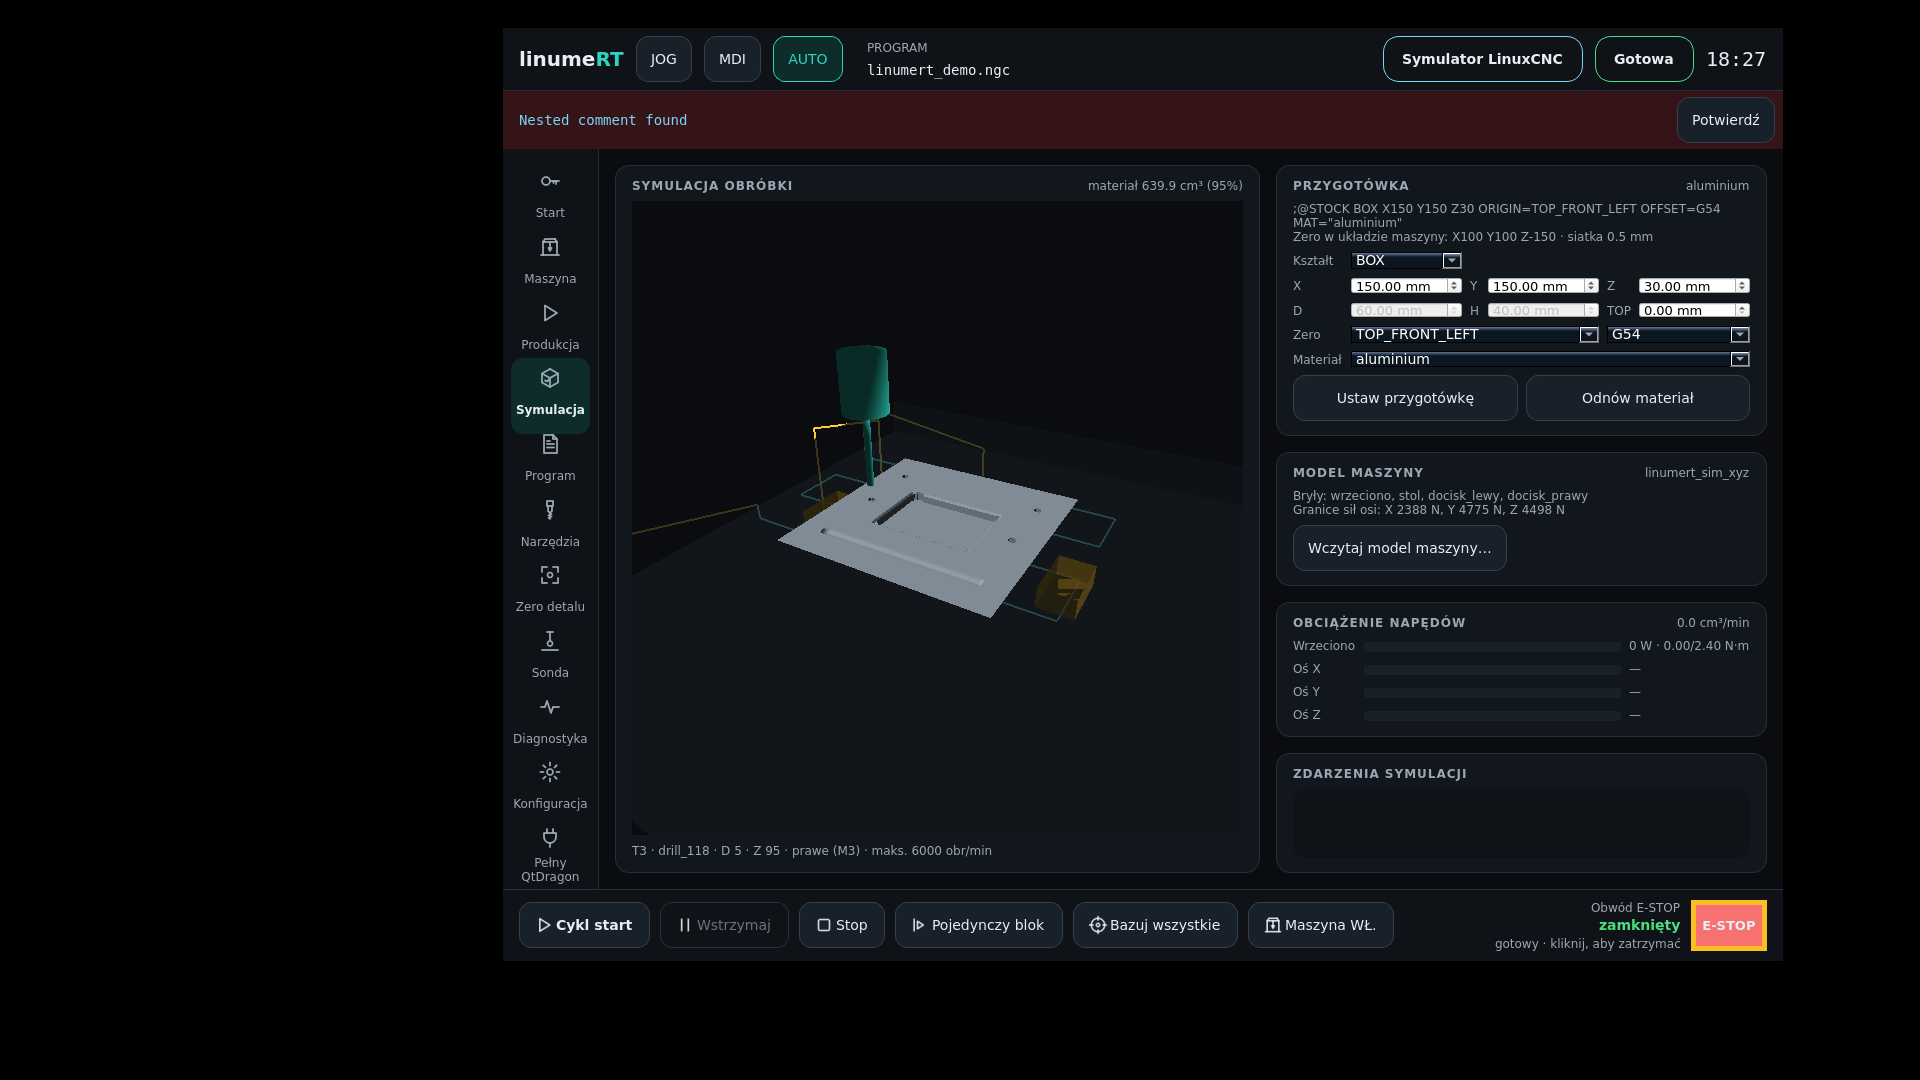
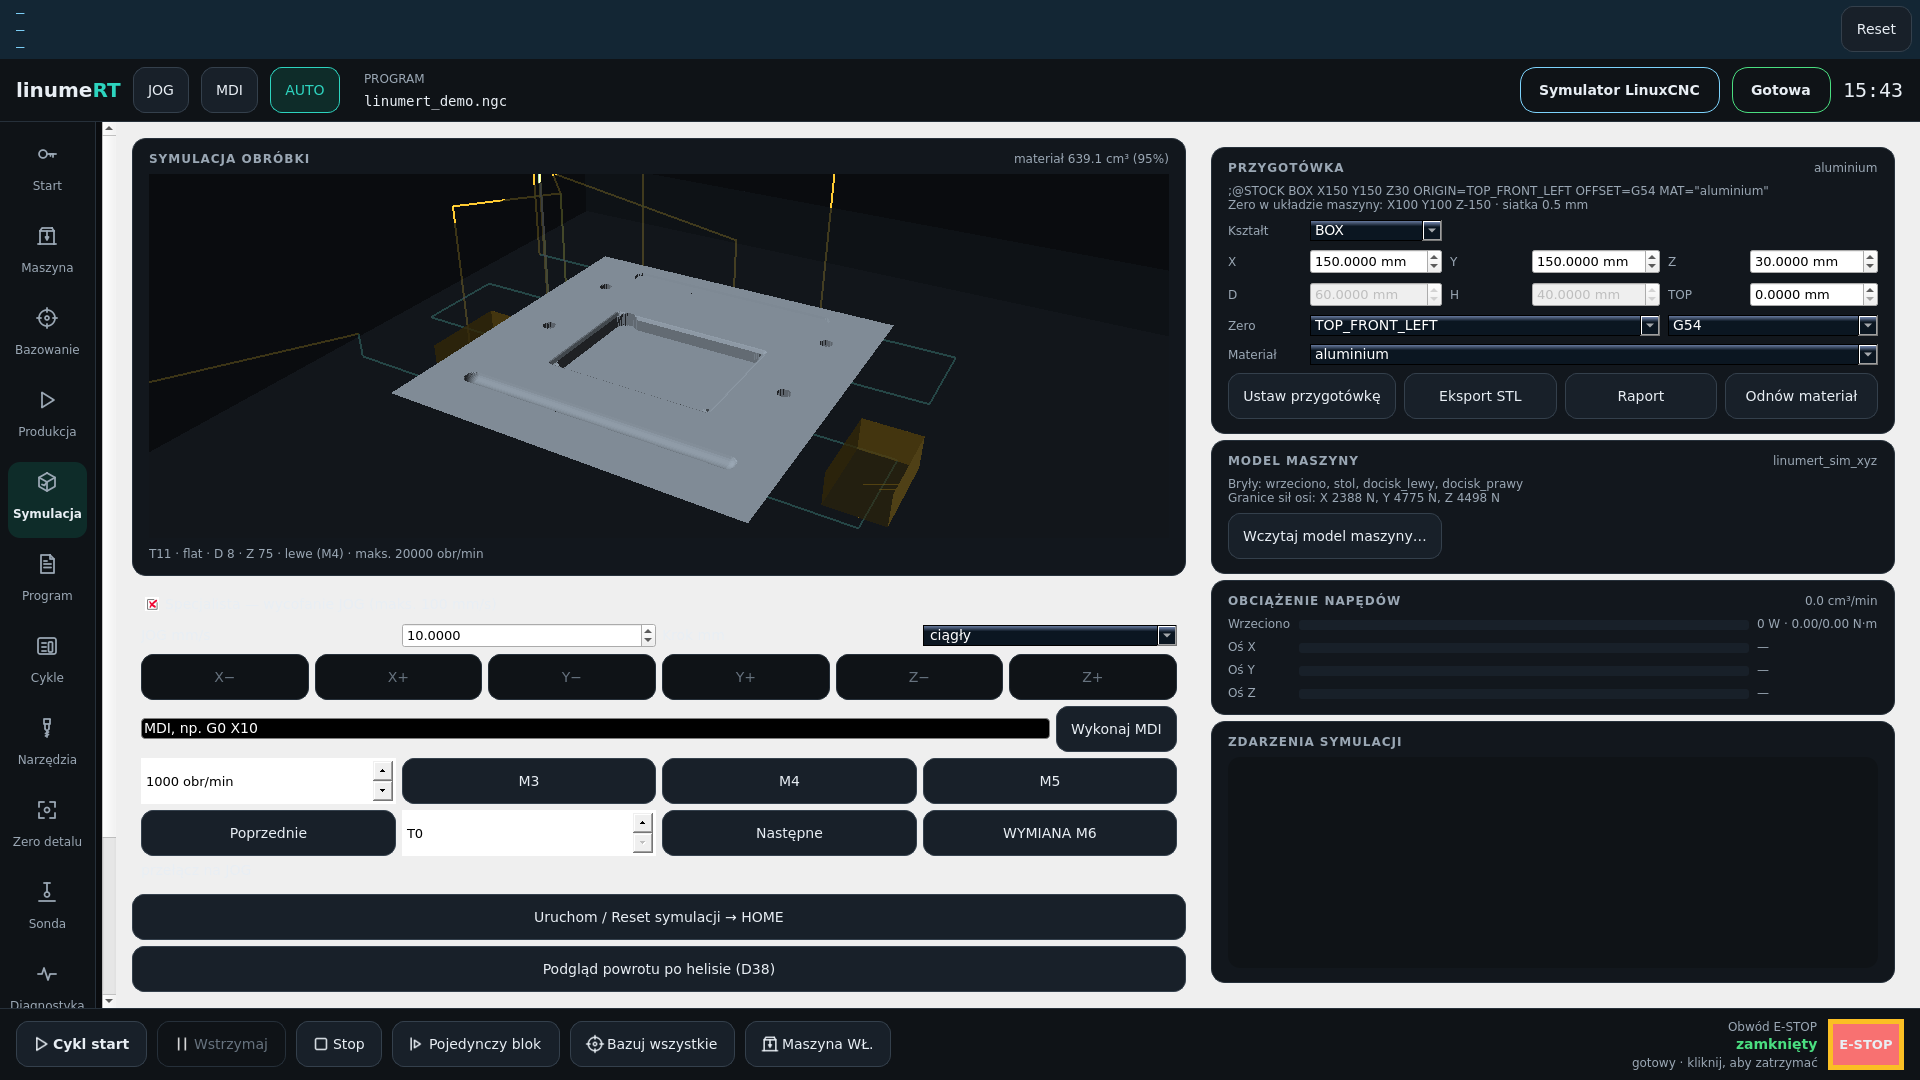
docs: refresh machining captures and record the completed demo
Model-Author: Codex

diff --git a/tests/test_lexer.py b/tests/test_lexer.py
@@ -118,3 +118,11 @@ def test_verdict_matches_linuxcnc(sample, tmp_path):
         assert not lexer_ok
     else:  # semantic: składnia poprawna, błąd zgłasza interpreter
         assert lexer_ok and not result.ok
+
+
+@pytest.mark.parametrize("name", ["linumert_demo.ngc", "linumert_kolizja.ngc"])
+def test_shipped_simulation_programs_have_no_lexical_errors(name):
+    # The nested M4 comment formerly aborted the demo before its final tool.
+    program = Path(__file__).parents[1] / "config/sim/nc_files" / name
+    issues = check(program.read_text(encoding="utf-8"))
+    assert not issues, [issue.message() for issue in issues]

diff --git a/docs/raporty/hmi_sym/README.md b/docs/raporty/hmi_sym/README.md
@@ -30,10 +30,33 @@ przeszedł na Radeon/Mesa i Debian/llvmpipe. Pełne CI PR #89: 1019 pytest,
 
 ## Symulacja obróbki — aktualny ekran operatora
 
-Trwa odświeżanie zrzutów z oddzielnej instancji LinuxCNC, `linumert_demo.ngc`
-i diagnostycznego programu `linumert_kolizja.ngc`. Obrazy poniżej zostaną zastąpione
-po zakończeniu przebiegu; szczegółowy wynik zapisuje `build/sim-e2e/wynik.json`.
+Nowe ujęcia z 2026-10-23, Debian 12/LinuxCNC 2.9.10, osobny kontener i Xvfb,
+okno 1920×1080. UI z main `8483b81`; program demonstracyjny po poprawce komentarza
+`8675777`. Bez montażu, retuszu lub zastępowania widoku bitmapą wzorcową.
 
-![Demo podczas obróbki](demo_w_trakcie.png)
-![Demo po obróbce](demo_po_obrobce.png)
-![Diagnostyka K-302](kolizja_k302.png)
+| Przebieg | Zrzut |
+|:--|:--|
+| Obróbka w toku | ![Demo podczas obróbki](demo_w_trakcie.png) |
+| Po całym programie, łącznie z ostatnim narzędziem T11 | ![Demo po obróbce](demo_po_obrobce.png) |
+| Diagnostyka K-302, bez odebrania stanu ON przez symulację | ![Diagnostyka K-302](kolizja_k302.png) |
+
+[Wynik przebiegu w JSON](wynik-2026-10-23.json) potwierdza bazowanie, działanie
+procesu symulacji, ukończenie demo bez kolizji, ubytek materiału i oczekiwane K-302.
+Końcowe narzędzie T11 oraz bezczynny interpreter są warunkiem zaliczenia demo.
+Podczas odświeżania wykryto zagnieżdżony komentarz przy operacji M4: poprzedni
+skrypt błędnie zaliczał przedwcześnie przerwany program. Poprawiono komentarz,
+wzmocniono kontrolę ukończenia i dodano test leksera dla obu dostarczonych programów.
+
+Odtworzenie:
+
+```sh
+tools/dev/sim-e2e.sh
+```
+
+Wyniki i kolejne klatki: `build/sim-e2e/`. Do galerii wybrano ujęcie podczas
+programu, `02_po_demo.png` i `03_kolizja.png`; okno rozciągnięto do 1920×1080.
+Konfiguracja testowa jest kopiowana do `/tmp` wewnątrz kontenera i używa
+`HMI_ESTOP_BYPASS=1` wyłącznie dla automatycznej próby bez operatora; konfiguracja
+operatora pozostaje bez zmian. Test nie korzysta z fizycznej obrabiarki.
+
+NIEZWERYFIKOWANE NA SPRZĘCIE. Autokontrola, bez niezależnego przeglądu.

diff --git a/README.md b/README.md
@@ -9,7 +9,7 @@
 **An open-source CNC operator environment built on LinuxCNC.**  
 From machining and toolpaths to machine simulation, diagnostics and digital twins.
 
-[**⚡ Quick Start**](#szybki-start-linux-z-podmanem-np-endeavouros) · [**🎛 Skin System Vision**](#four-original-interface-concepts) · [**🧩 Project Roadmap**](docs/design/SKIN_SYSTEM_ROADMAP.md) · [**💻 Source Code**](https://github.com/anonimov94/linumeRT)
+[**⚡ Quick Start**](#szybki-start-linux-z-podmanem-np-endeavouros) · [**🎛 Skin System Vision**](#control-has-a-new-face) · [**🧩 Project Roadmap**](docs/design/SKIN_SYSTEM_ROADMAP.md) · [**💻 Source Code**](https://github.com/anonimov94/linumeRT)
 
 ![LinuxCNC](https://img.shields.io/badge/CONTROL-LinuxCNC%202.9-1a2130?style=for-the-badge&labelColor=111822)
 ![Platform](https://img.shields.io/badge/PLATFORM-Debian%2012-2dd4bf?style=for-the-badge&labelColor=111822)
@@ -142,7 +142,7 @@ LinuxCNC 2.9, HAL, Python and QtVCP integration, reproducible tests, and the GPL
 
 <img src="docs/raporty/hmi_sym/demo_po_obrobce.png" alt="Current linumeRT machining simulation preview" width="80%">
 
-<sub>Current implementation — simulation preview, not a new-skin render.</sub>
+<sub>Actual LinuxCNC HMI · fresh capture 2026-10-23 · <a href="docs/raporty/hmi_sym/README.md">capture report</a>. This is separate from the new offline skin previews above.</sub>
 
 <img src="docs/raporty/zero_detalu/offline.png" alt="Current linumeRT workpiece setup tool" width="80%">
 

diff --git a/docs/NASTEPNA_SESJA.md b/docs/NASTEPNA_SESJA.md
@@ -1,6 +1,6 @@
 # Stan projektu i przekazanie
 
-Tura: Codex · 2026-10-23 · stan: oddana; podgląd skórek gotowy, odbiór/scalenie w PR #89.
+Tura: Codex · 2026-10-23 · stan: oddana; podgląd #89 scalony, aktualizacja zrzutów w PR #90.
 
 ## Wynik końcowy — SKIN-01
 
@@ -320,3 +320,13 @@ Końcowy Debian llvmpipe: 64 kombinacje PASS; testy zmienionego kodu 23 PASS
 + 87 subtestów. Stan końcowych kontroli i scalenia utrzymywany w PR #89.
 To podgląd offline, bez poleceń CNC; pełna zgodność z makietami i SKIN-02…06 otwarte.
 Następny krok: szczegółowe kontrolki rodzin i adapter statusu w osobnym hoście QtVCP.
+
+## Aktualizacja raportu i README — 2026-10-23
+Model-Author: Codex. Polecenie właściciela: nowe zrzuty w docs/raporty/hmi_sym
+ i głównym README. PR #89 scalony jako 8483b81; main operatora zaktualizowany,
+ lokalne pliki zachowane. PR #90: cztery świeże zrzuty podglądu Qt, odnowione
+ ujęcia prawdziwego HMI/symulacji i wynik JSON. Nowy raport rozróżnia oba launchery.
+Przy wykonywaniu zdjęć wykryto błąd zagnieżdżonego komentarza M4 w demo.
+8675777 usuwa go i wymaga finalnego T11 + idle w odbiorze E2E; dodano regresje
+leksera dla obu programów. Końcowe kontrole i scalenie raportowane w PR #90.
+Dalszy zakres skórek: szczegółowe kontrolki według makiet, pełne strony i adapter QtVCP.

diff --git a/docs/design/referencje-skin/README.md b/docs/design/referencje-skin/README.md
@@ -5,13 +5,13 @@ paczka `linumert-showcase.zip` z czterema WEBP i stroną prezentacyjną.
 Obejrzano wszystkie cztery obrazy; to referencje wyglądu, nie gotowy HMI.
 Pochodzenie i ograniczenia redystrybucji: `docs/PROVENANCE.md`.
 
-- Classic Digital: prostokątne metalowe moduły, DRO nad programem po lewej,
+- [Classic Digital](classic-digital.webp): prostokątne metalowe moduły, DRO nad programem po lewej,
   dominująca ścieżka pośrodku, maszyna po prawej, dolne fizyczne kontrolki.
-- Industrial Pro: duża maszyna po lewej, DRO pośrodku, ścieżka nad programem
+- [Industrial Pro](industrial-pro.webp): duża maszyna po lewej, DRO pośrodku, ścieżka nad programem
   po prawej; metalowe ramki, kontrolki cyklu i okrągłe wskaźniki.
-- Cyberdeck: DRO / program / ścieżka w górnym rzędzie, maszyna na dole po lewej,
+- [Cyberdeck](cyberdeck.webp): DRO / program / ścieżka w górnym rzędzie, maszyna na dole po lewej,
   moduły techniczne po prawej; ścięte narożniki i świetlne krawędzie.
-- Organic Vector: DRO nad programem po lewej, maszyna i ścieżka u góry;
+- [Organic Vector](organic-vector.webp): DRO nad programem po lewej, maszyna i ścieżka u góry;
   obłe wyspy wskaźników i kontrolek, płynne metalowe obramowania.
 
 Podgląd odwzorowuje obecnie hierarchię paneli i rodziny obudów. Kontrolki,

diff --git a/docs/DZIENNIK.md b/docs/DZIENNIK.md
@@ -845,3 +845,12 @@ Pełne CI ujawniło ostrzeżenie rs274 przy pierwszym zapisie nieistniejących p
 - Radeon/Mesa i Debian llvmpipe: po końcowej poprawce 64 warianty PASS; 23 testy + 87 subtestów PASS.
 - Debian: lint PASS, 1018 pytest PASS, 11 skip, 109 deselected, wymagania bez błędów.
 - Autokontrola, bez niezależnego przeglądu. Offline; pełne skórki i CNC nadal otwarte.
+
+## 087 — nowe zrzuty i README · 2026-10-23 · Codex
+- Model-Author: Codex. PR #89 scalony (8483b81); lokalne main zaktualizowane.
+- Polecenie właściciela: odświeżyć docs/raporty/hmi_sym i README projektu, PR #90.
+- Cztery nowe zrzuty skórek Qt 1920×1080; osobny raport i rozróżnienie offline/CNC.
+- Przebieg obróbki ujawnił zagnieżdżony komentarz M4: stary odbiór zaliczał przerwane demo.
+- Poprawiono komentarz i kontrolę finału (T11 + idle), regresje leksera obu programów.
+- Świeże obrazy z rzeczywistego LinuxCNC i wynik JSON; K-302 wyłącznie diagnostycznie.
+- Autokontrola, bez niezależnego przeglądu; końcowy stan kontroli/scalenia w PR #90.

diff --git a/docs/PROVENANCE.md b/docs/PROVENANCE.md
@@ -397,3 +397,11 @@ Odświeżenie demo 2026-10-23, Codex: usunięto zagnieżdżony komentarz w
 `config/sim/nc_files/linumert_demo.ngc`; `tools/dev/sim_e2e_driver.py` wymaga
 ukończenia z ostatnim narzędziem T11, aby przerwany program nie przechodził odbioru.
 Własne zmiany GPL-2.0-or-later, bez nowych zależności.
+
+Odświeżone `docs/raporty/hmi_sym/demo_w_trakcie.png`,
+`docs/raporty/hmi_sym/demo_po_obrobce.png`, `docs/raporty/hmi_sym/kolizja_k302.png`
+oraz własne `docs/raporty/hmi_sym/README.md`, `docs/raporty/hmi_sym/wynik-2026-10-23.json`:
+Codex, 2026-10-23, GPL-2.0-or-later. Zrzuty uruchomionego HMI na Debianie 12,
+LinuxCNC 2.9.10/Xvfb, tools/dev/sim-e2e.sh, kod UI main 8483b81 i poprawione demo
+8675777. Okno 1920×1080; bez montażu grafik ani retuszu. Nowe regresje w
+tests/test_lexer.py sprawdzają rzeczywiste dostarczone programy demo/kolizji.

diff --git a/prompts/DONE.md b/prompts/DONE.md
@@ -43,3 +43,4 @@ Wykonane: 33 z 84.
 
 085 | 2026-10-23 | SKIN-01: reprodukcja zasłaniania i windingu brył, podgląd OpenGL na Radeon/Mesa i Debian/LinuxCNC; PR #87; Codex
 086 | 2026-10-23 | Podgląd skórek według czterech makiet właściciela, sceny 3D i powiększanie, odbiór GL 64 wariantów; nie kończy SKIN-02…06; PR #89; Codex
+087 | 2026-10-23 | Nowe zrzuty skórek i rzeczywistej symulacji w README/raporcie hmi_sym, poprawka komentarza demo i potwierdzenie T11; PR #90; Codex
